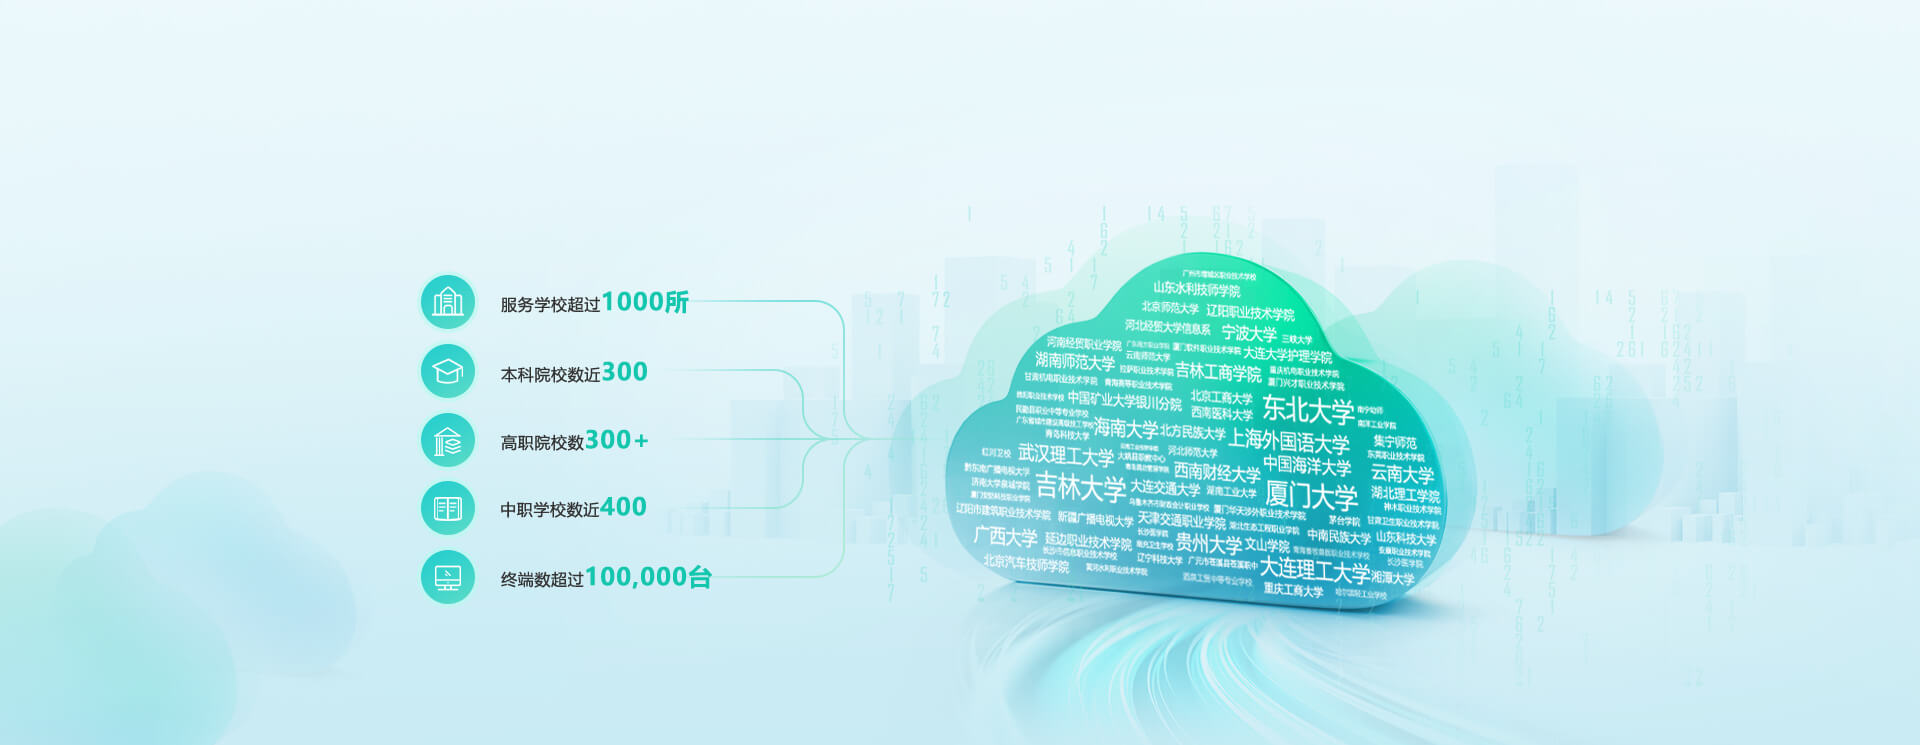
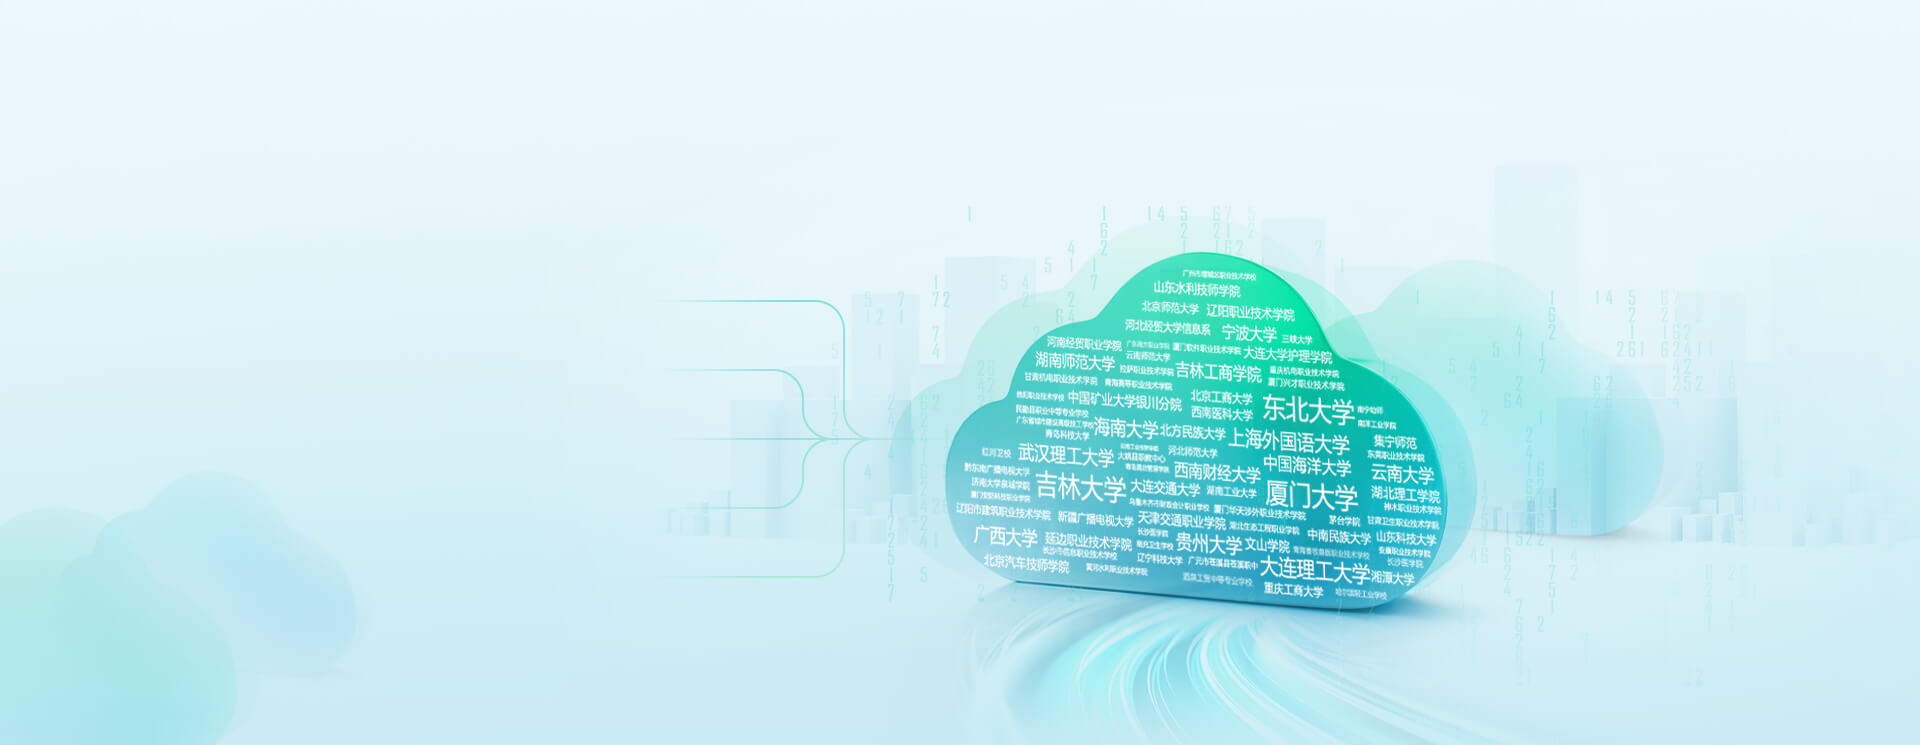
wanshan

Changed region(s): [[0.2188, 0.3705, 0.375, 0.8336]]

diff --git a/gaojiao-scss/item.scss b/gaojiao-scss/item.scss
@@ -724,6 +724,7 @@ body {
     position: absolute;
     top: 0;
     left: 50%;
+    bottom: 0;
     transform: translateX(-50%);
     z-index: 1;
   }
@@ -772,6 +773,29 @@ body {
   background: -ms-linear-gradient(left, #23cae2, #1b9ee3, #438cd3);
   background: -webkit-linear-gradient(left, #23cae2, #1b9ee3, #438cd3);
   background: -moz-linear-gradient(left, #23cae2, #1b9ee3, #438cd3);
+}
+.page6-list {
+  position: absolute;
+  top: 37%;
+  left: 3%;
+}
+.page6-item {
+  line-height: 56px;
+  margin-bottom: 9px;
+  .icon {
+    width: 56px;
+    height: 56px;
+    margin-right: 10px;
+  }
+  .text {
+    font-size: 16px;
+    color: #333333;
+  }
+  .num {
+    font-size: 24px;
+    color: #14c6ae;
+    font-weight: bold;
+  }
 }
 .item-btn{
   height: 37px;
@@ -824,6 +848,43 @@ body {
 #iframe {
   display: none;
 }
+@media screen and (max-width: 1680px) {
+  .page6-list {
+    top: 36%;
+    left: 9%;
+  }
+  .page6-item {
+    margin-bottom: 1px;
+  }
+}
+@media screen and (max-width: 1440px) {
+  .page6-list {
+    top: 35%;
+    left: 12%;
+  }
+  .page6-item {
+    line-height: 50px;
+    margin-bottom: 0;
+    .icon {
+      width: 50px;
+      height: 50px;
+    }
+  }
+}
+
+@media screen and (max-width: 1280px) {
+  .page6-list {
+    top: 33%;
+  }
+  .page6-item {
+    margin-bottom: 0;
+    margin-top: -2px;
+    &:first-child {
+      margin-top: 0;
+    }
+  }
+}
+
 @media screen and (max-width: 768px){
   .show-pc{
     display: none!important;
@@ -1065,8 +1126,39 @@ body {
     }
   }
 
-  .page6-cont{
-    display: block;
+  .t-page6 {
+    background: #e4f5fa;
+    padding-top: 340px;
+  }
+  .page6-list {
+    position: absolute;
+    display: flex;
+    top: 20%;
+    left: 6%;
+    right: 6%;
+    justify-content: space-between;
+  }
+  .page6-item {
+    line-height: 20px;
+    margin-bottom: 0;
+    margin-top: 0;
+    text-align: center;
+    .icon {
+      width: 56px;
+      height: 56px;
+      margin-bottom: 30px;
+    }
+    .text {
+      display: block;
+      margin-bottom: 10px;
+      font-size: 16px;
+      color: #333333;
+    }
+    .num {
+      display: block;
+      font-size: 20px;
+      color: #14c6ae;
+    }
   }
   /**/
   .ns-layer.ns-video-layer .ns-layer-inner { width: 420px; }
@@ -1111,6 +1203,31 @@ body {
   }
   .page5-cont {
     margin: 0 15px;
+  }
+  .t-page6 {
+    background: #e4f5fa;
+    padding-top: 250px;
+  }
+  .page6-list {
+    top: 20%;
+    left: 10px;
+    right: 10px;
+  }
+  .page6-item {
+    .icon {
+      width: 50px;
+      height: 50px;
+      margin-bottom: 20px;
+    }
+    .text {
+      margin-bottom: 7px;
+      font-size: 14px;
+    }
+    .num {
+      display: block;
+      font-size: 18px;
+      color: #14c6ae;
+    }
   }
   /**/
   .ns-layer.ns-video-layer .ns-layer-inner { width: 300px; }

diff --git a/gaojiao/RJ-css/item.css b/gaojiao/RJ-css/item.css
@@ -755,6 +755,7 @@ body {
   position: absolute;
   top: 0;
   left: 50%;
+  bottom: 0;
   transform: translateX(-50%);
   z-index: 1;
 }
@@ -809,6 +810,31 @@ body {
   background: -ms-linear-gradient(left, #23cae2, #1b9ee3, #438cd3);
   background: -webkit-linear-gradient(left, #23cae2, #1b9ee3, #438cd3);
   background: -moz-linear-gradient(left, #23cae2, #1b9ee3, #438cd3);
+}
+
+.page6-list {
+  position: absolute;
+  top: 37%;
+  left: 3%;
+}
+
+.page6-item {
+  line-height: 56px;
+  margin-bottom: 9px;
+}
+.page6-item .icon {
+  width: 56px;
+  height: 56px;
+  margin-right: 10px;
+}
+.page6-item .text {
+  font-size: 16px;
+  color: #333333;
+}
+.page6-item .num {
+  font-size: 24px;
+  color: #14c6ae;
+  font-weight: bold;
 }
 
 .item-btn {
@@ -887,6 +913,44 @@ body {
   display: none;
 }
 
+@media screen and (max-width: 1680px) {
+  .page6-list {
+    top: 36%;
+    left: 9%;
+  }
+
+  .page6-item {
+    margin-bottom: 1px;
+  }
+}
+@media screen and (max-width: 1440px) {
+  .page6-list {
+    top: 35%;
+    left: 12%;
+  }
+
+  .page6-item {
+    line-height: 50px;
+    margin-bottom: 0;
+  }
+  .page6-item .icon {
+    width: 50px;
+    height: 50px;
+  }
+}
+@media screen and (max-width: 1280px) {
+  .page6-list {
+    top: 33%;
+  }
+
+  .page6-item {
+    margin-bottom: 0;
+    margin-top: -2px;
+  }
+  .page6-item:first-child {
+    margin-top: 0;
+  }
+}
 @media screen and (max-width: 768px) {
   .show-pc {
     display: none !important;
@@ -1146,8 +1210,41 @@ body {
     padding: 12px 0 20px;
   }
 
-  .page6-cont {
+  .t-page6 {
+    background: #e4f5fa;
+    padding-top: 340px;
+  }
+
+  .page6-list {
+    position: absolute;
+    display: flex;
+    top: 20%;
+    left: 6%;
+    right: 6%;
+    justify-content: space-between;
+  }
+
+  .page6-item {
+    line-height: 20px;
+    margin-bottom: 0;
+    margin-top: 0;
+    text-align: center;
+  }
+  .page6-item .icon {
+    width: 56px;
+    height: 56px;
+    margin-bottom: 30px;
+  }
+  .page6-item .text {
     display: block;
+    margin-bottom: 10px;
+    font-size: 16px;
+    color: #333333;
+  }
+  .page6-item .num {
+    display: block;
+    font-size: 20px;
+    color: #14c6ae;
   }
 
   /**/
@@ -1199,6 +1296,32 @@ body {
 
   .page5-cont {
     margin: 0 15px;
+  }
+
+  .t-page6 {
+    background: #e4f5fa;
+    padding-top: 250px;
+  }
+
+  .page6-list {
+    top: 20%;
+    left: 10px;
+    right: 10px;
+  }
+
+  .page6-item .icon {
+    width: 50px;
+    height: 50px;
+    margin-bottom: 20px;
+  }
+  .page6-item .text {
+    margin-bottom: 7px;
+    font-size: 14px;
+  }
+  .page6-item .num {
+    display: block;
+    font-size: 18px;
+    color: #14c6ae;
   }
 
   /**/

diff --git a/gaojiao/index.html b/gaojiao/index.html
@@ -1146,9 +1146,36 @@
 		  <img class="page6-img show-pc" src="./RJ-img/page6-bg.jpg" alt="">
 		  <img class="page6-img show-mobile" src="./RJ-img/page6-bg-m.jpg" alt="">
 		  <div class="t-content">
-			<div class="t-main-title">云桌面在高校</div>
-			<p class="t-sub-title">推进桌面云化进程 打造高校一朵云</p>
-		  </div>
+			  <div class="t-main-title">云桌面在高校</div>
+			  <p class="t-sub-title">推进桌面云化进程 打造高校一朵云</p>
+        <ul class="page6-list">
+          <li class="page6-item">
+            <img src="./RJ-img/page6-icon1.png" alt="" class="icon">
+            <span class="text">服务学校超过</span>
+            <span class="num">1000所</span>
+          </li>
+          <li class="page6-item">
+            <img src="./RJ-img/page6-icon2.png" alt="" class="icon">
+            <span class="text">本科院校数近</span>
+            <span class="num">300</span>
+          </li>
+          <li class="page6-item">
+            <img src="./RJ-img/page6-icon3.png" alt="" class="icon">
+            <span class="text">高职院校数</span>
+            <span class="num">300+</span>
+          </li>
+          <li class="page6-item">
+            <img src="./RJ-img/page6-icon4.png" alt="" class="icon">
+            <span class="text">中职学校数近</span>
+            <span class="num">400</span>
+          </li>
+          <li class="page6-item">
+            <img src="./RJ-img/page6-icon5.png" alt="" class="icon">
+            <span class="text">终端数超过</span>
+            <span class="num">100,000台</span>
+          </li>
+        </ul>
+      </div>
 		</div> 
   </div>
 	<!--内容正文结束-->
